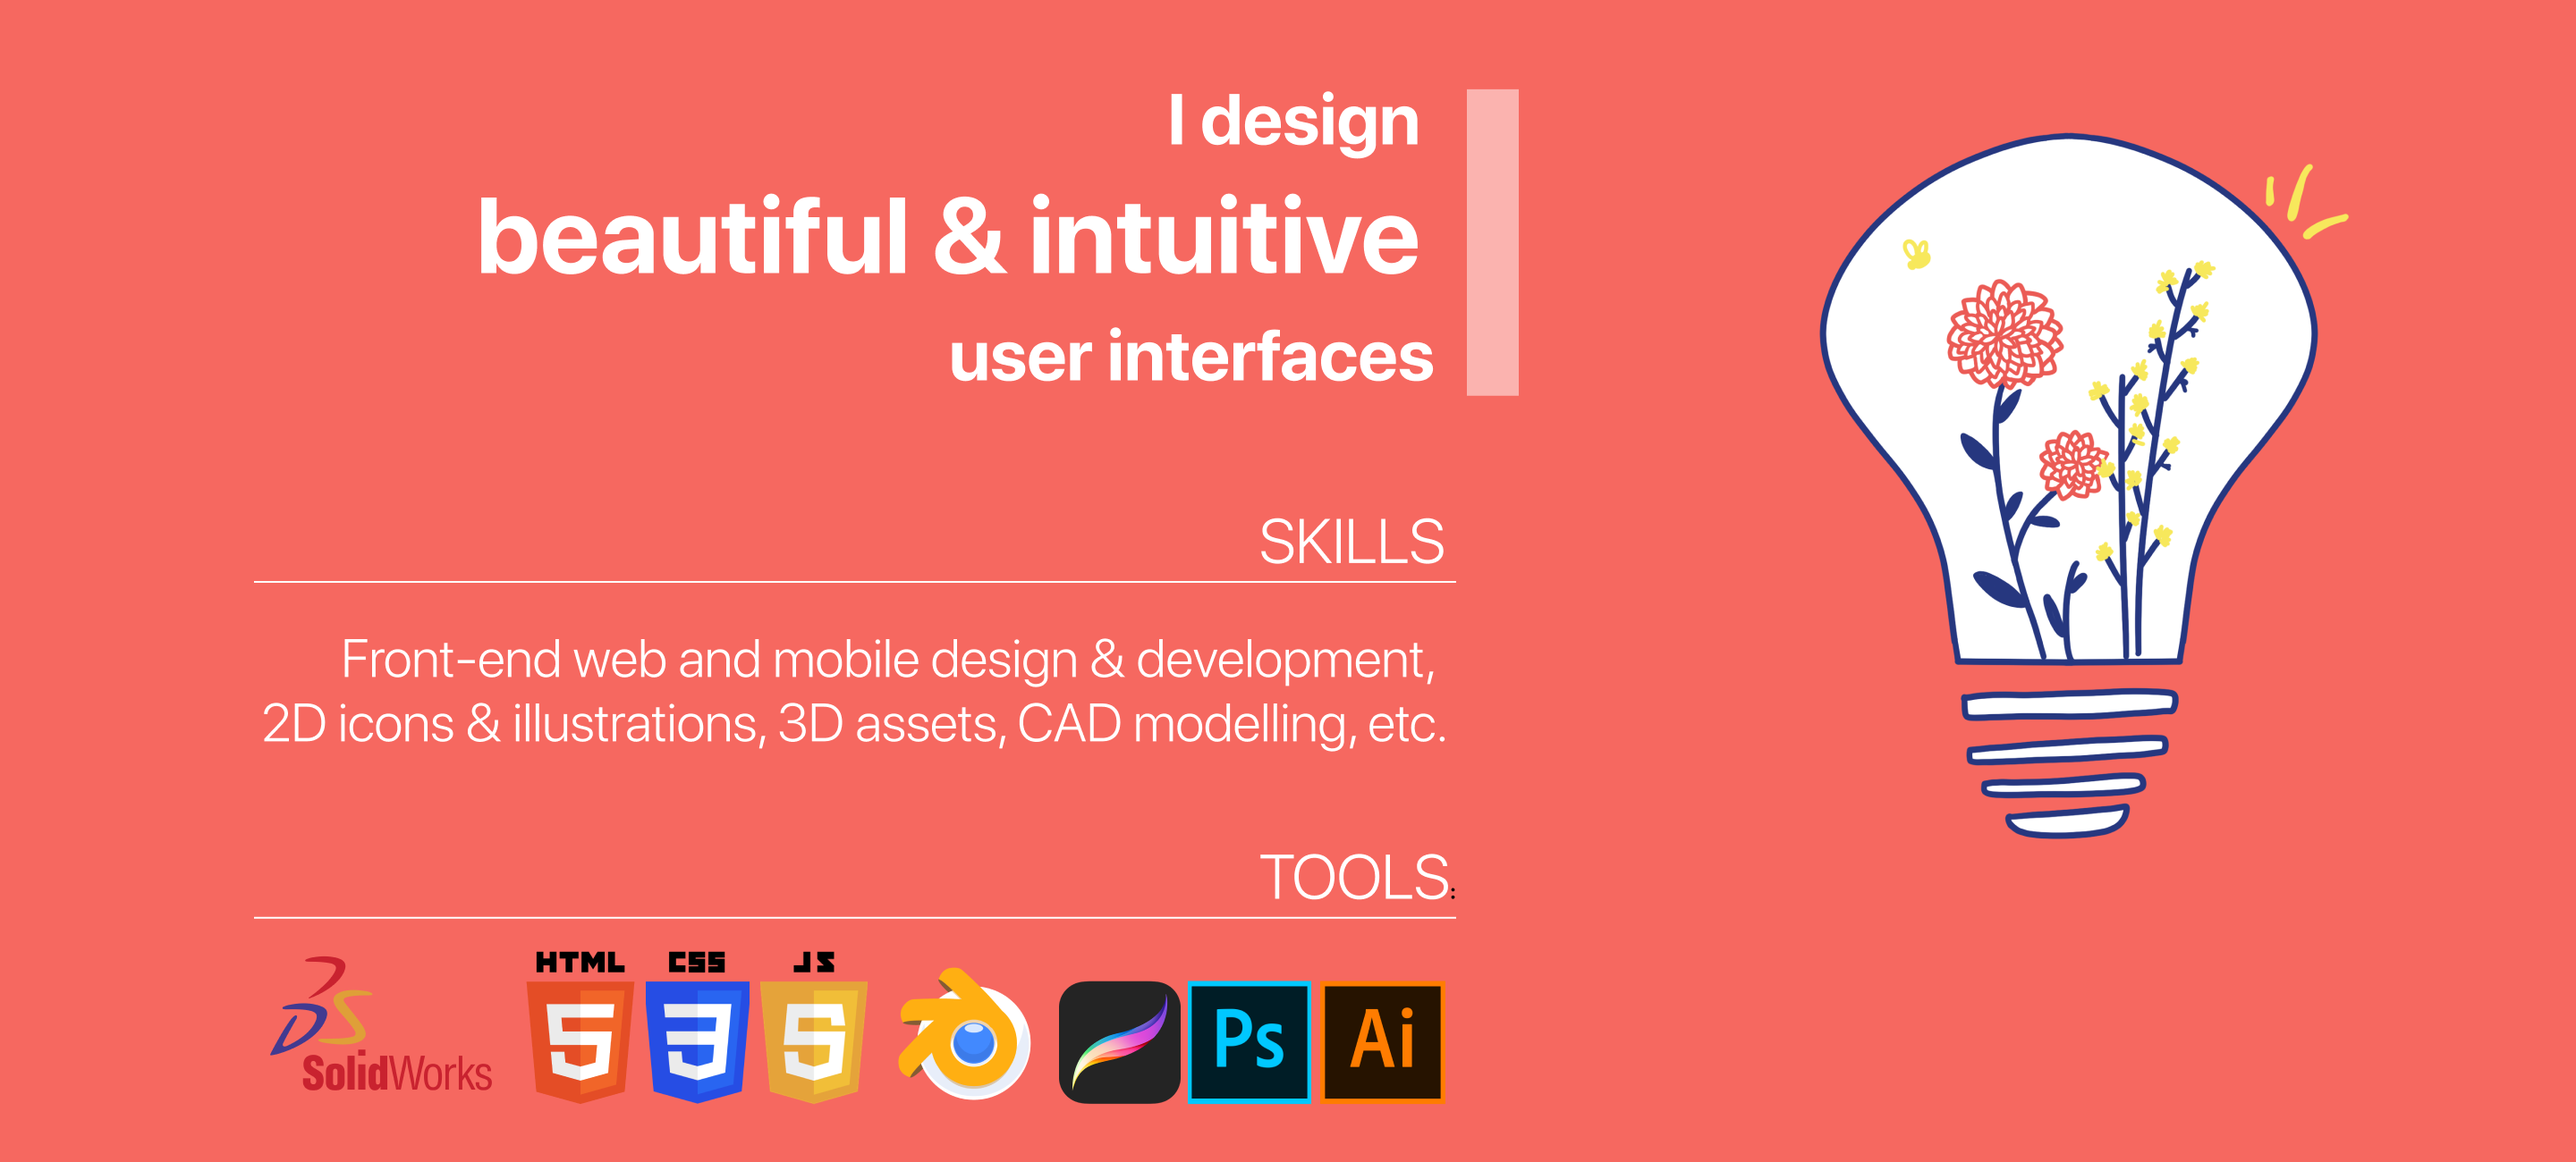
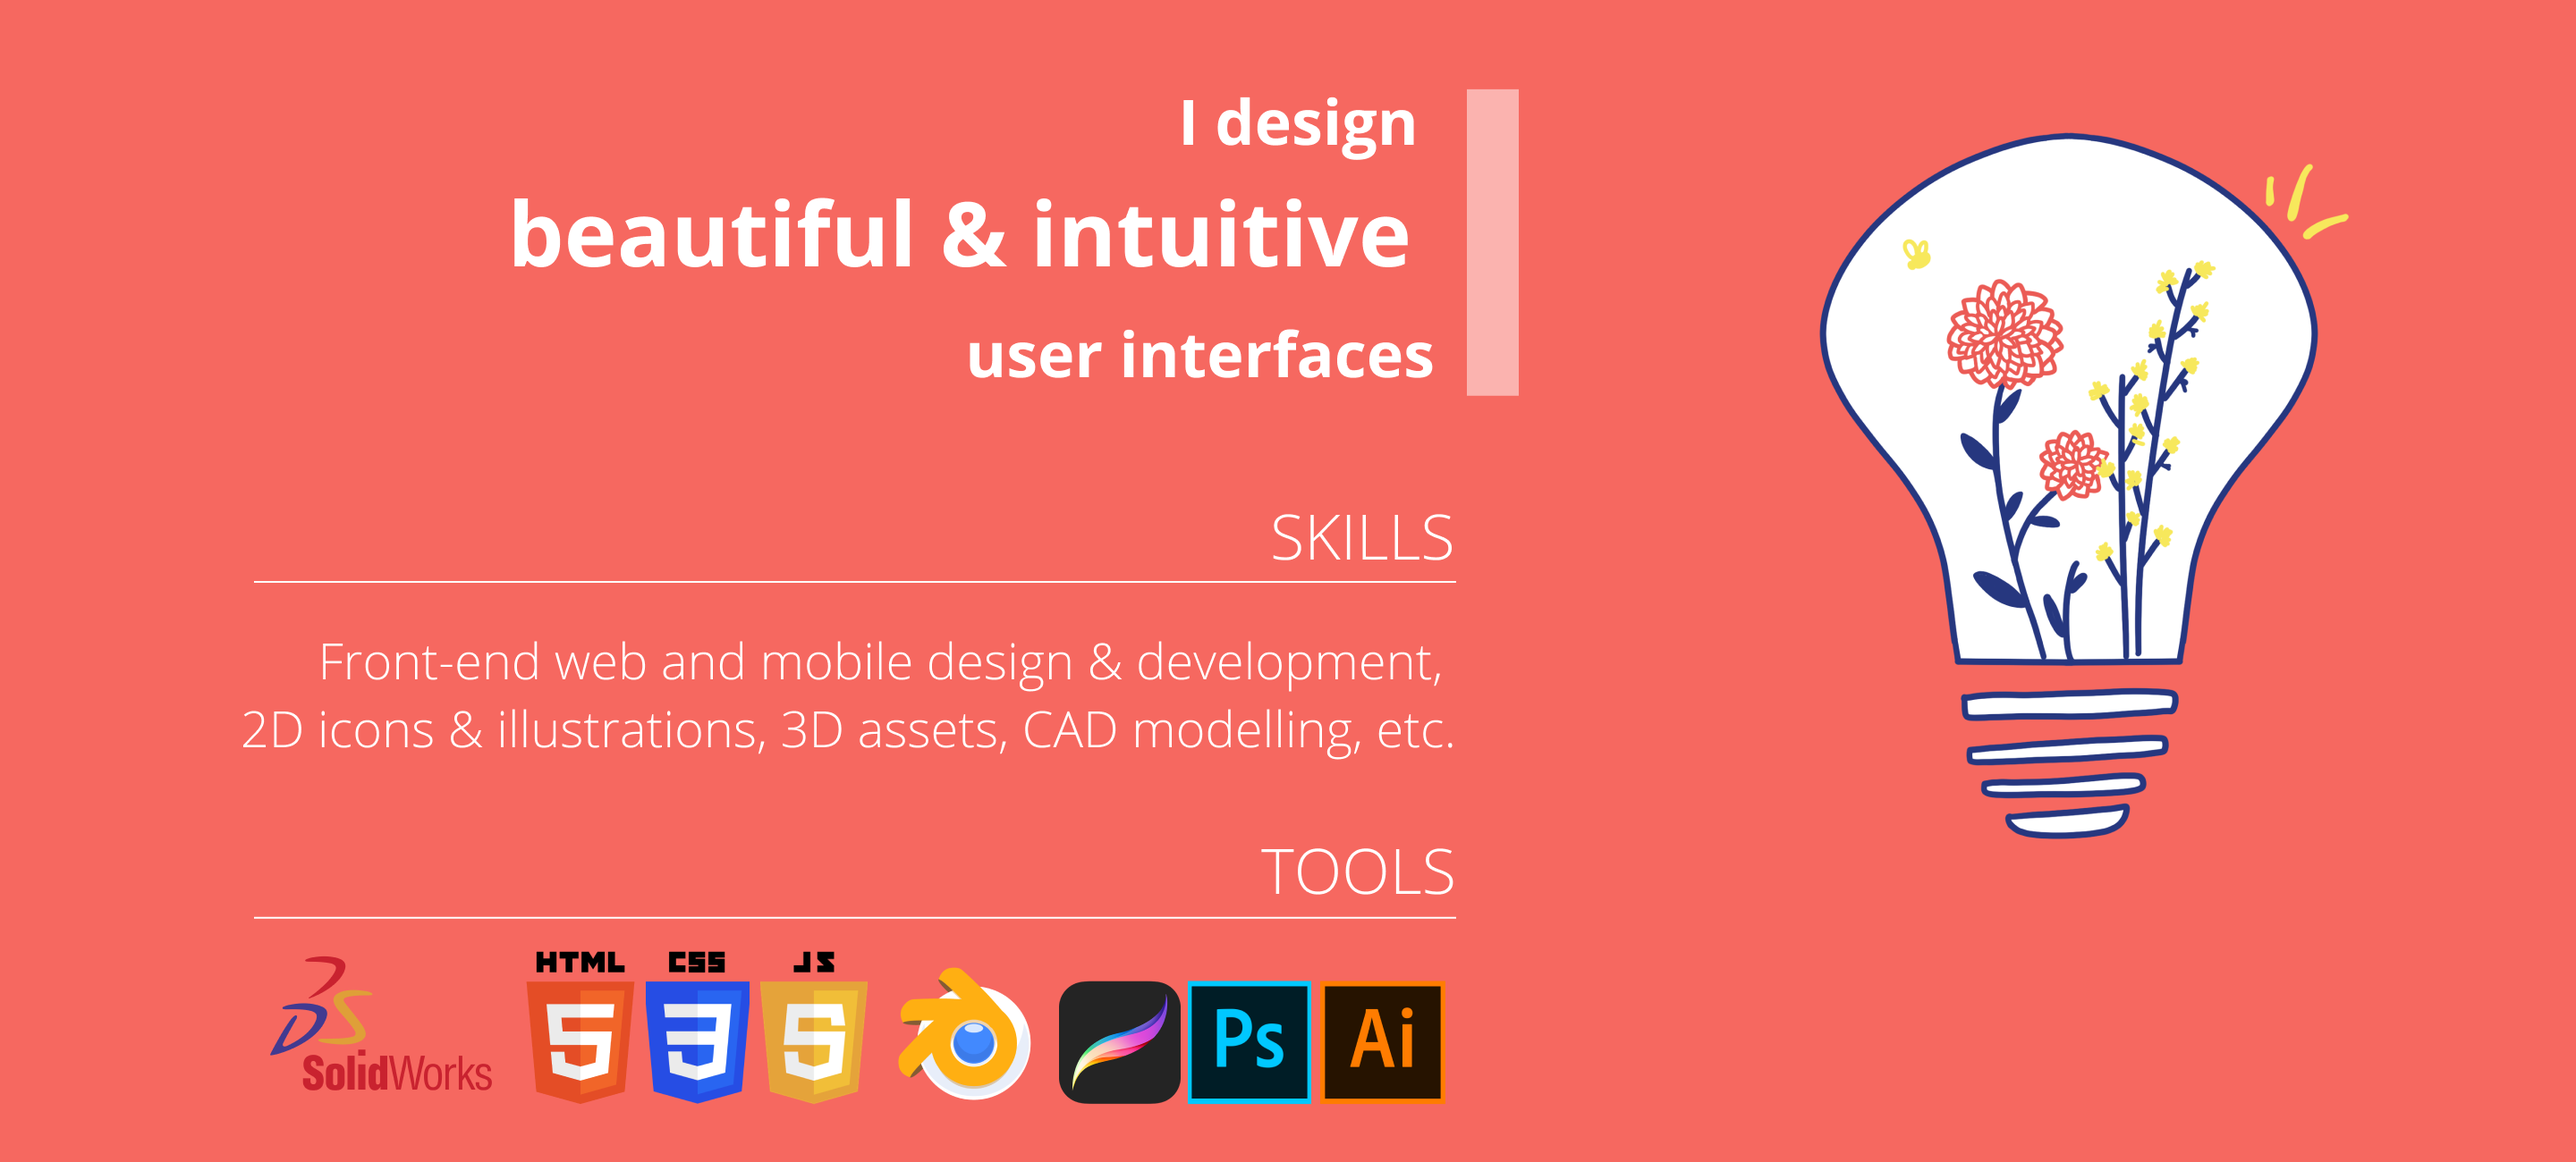
updated fonts from figma

diff --git a/app/components/NavBar.js b/app/components/NavBar.js
@@ -1,14 +1,14 @@
 import React from 'react'
 import {Link } from "react-router-dom";
 import styled from 'styled-components';
-import DevButton from '../images/Landing/DevButton.png';
-import DevButtonActive from '../images/Landing/DevButtonActive.png';
-import DesignButton from '../images/Landing/DesignButton.png';
-import DesignButtonActive from '../images/Landing/DesignButtonActive.png';
-import ResumeButton from '../images/Landing/ResumeButton.png';
-import ResumeButtonActive from '../images/Landing/ResumeButtonActive.png';
-import ContactsButton from '../images/Landing/ContactButton.png';
-import ContactsButtonActive from '../images/Landing/ContactButtonActive.png';
+import DevButton from '../images/Buttons/DevButton.png';
+import DevButtonActive from '../images/Buttons/DevButtonActive.png';
+import DesignButton from '../images/Buttons/DesignButton.png';
+import DesignButtonActive from '../images/Buttons/DesignButtonActive.png';
+import ResumeButton from '../images/Buttons/ResumeButton.png';
+import ResumeButtonActive from '../images/Buttons/ResumeButtonActive.png';
+import ContactsButton from '../images/Buttons/ContactButton.png';
+import ContactsButtonActive from '../images/Buttons/ContactButtonActive.png';
 import logoButton from '../images/Landing/logo.png';
 import logoButtonActive from '../images/Landing/logoActive.png';
 

diff --git a/app/containers/HomePage/index.js b/app/containers/HomePage/index.js
@@ -11,9 +11,9 @@ import colors from '../../components/Colors';
 import NavBar from '../../components/NavBar';
 import {Link } from "react-router-dom";
 
-import ViewResumeButton from '../../images/Landing/ViewResumeButton.png';
-import ViewWorkButton from '../../images/Landing/ViewWorkButton.png';
-import ViewContactButton from '../../images/Landing/ViewContactButton.png';
+import ViewResumeButton from '../../images/Buttons/ViewResumeButton.png';
+import ViewWorkButton from '../../images/Buttons/ViewWorkButton.png';
+import ViewContactButton from '../../images/Buttons/ViewContactButton.png';
 
 
 const Container = styled.div`
@@ -36,6 +36,7 @@ const Footer = styled.div`
   flex-direction: row;
   justifyContent: center;
   alignItems: center;
+  padding-right: 3%;
 `;
 
 

diff --git a/app/index.html b/app/index.html
@@ -11,10 +11,10 @@
   <!-- Allow installing the app to the homescreen -->
   <meta name="mobile-web-app-capable" content="yes">
 
-  <link rel="icon" href="/favicon.ico" />
+  <link rel="icon" href="../app/images/favicon.png"/>
   <link href="https://fonts.googleapis.com/css?family=Open+Sans:300&display=swap" rel="stylesheet">
 
-  <title>React.js Boilerplate</title>
+  <title>bysallymoon.me</title>
 </head>
 
 <body>
